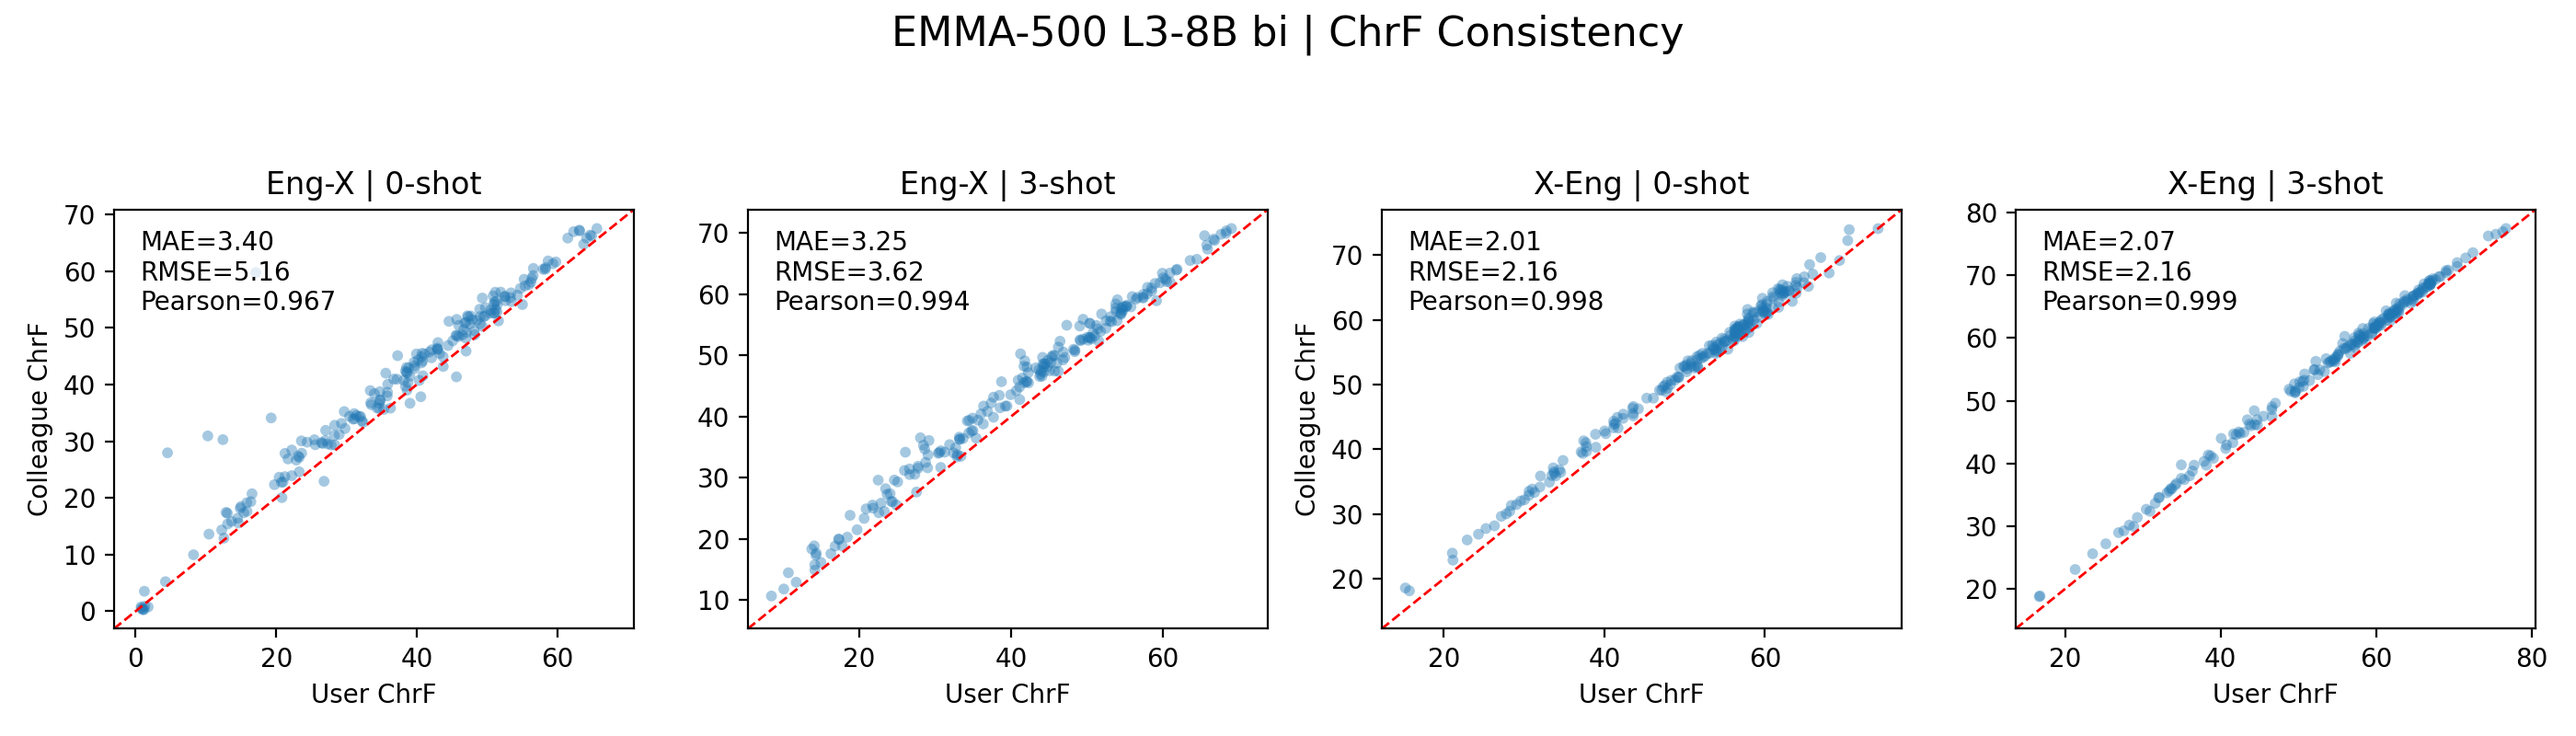
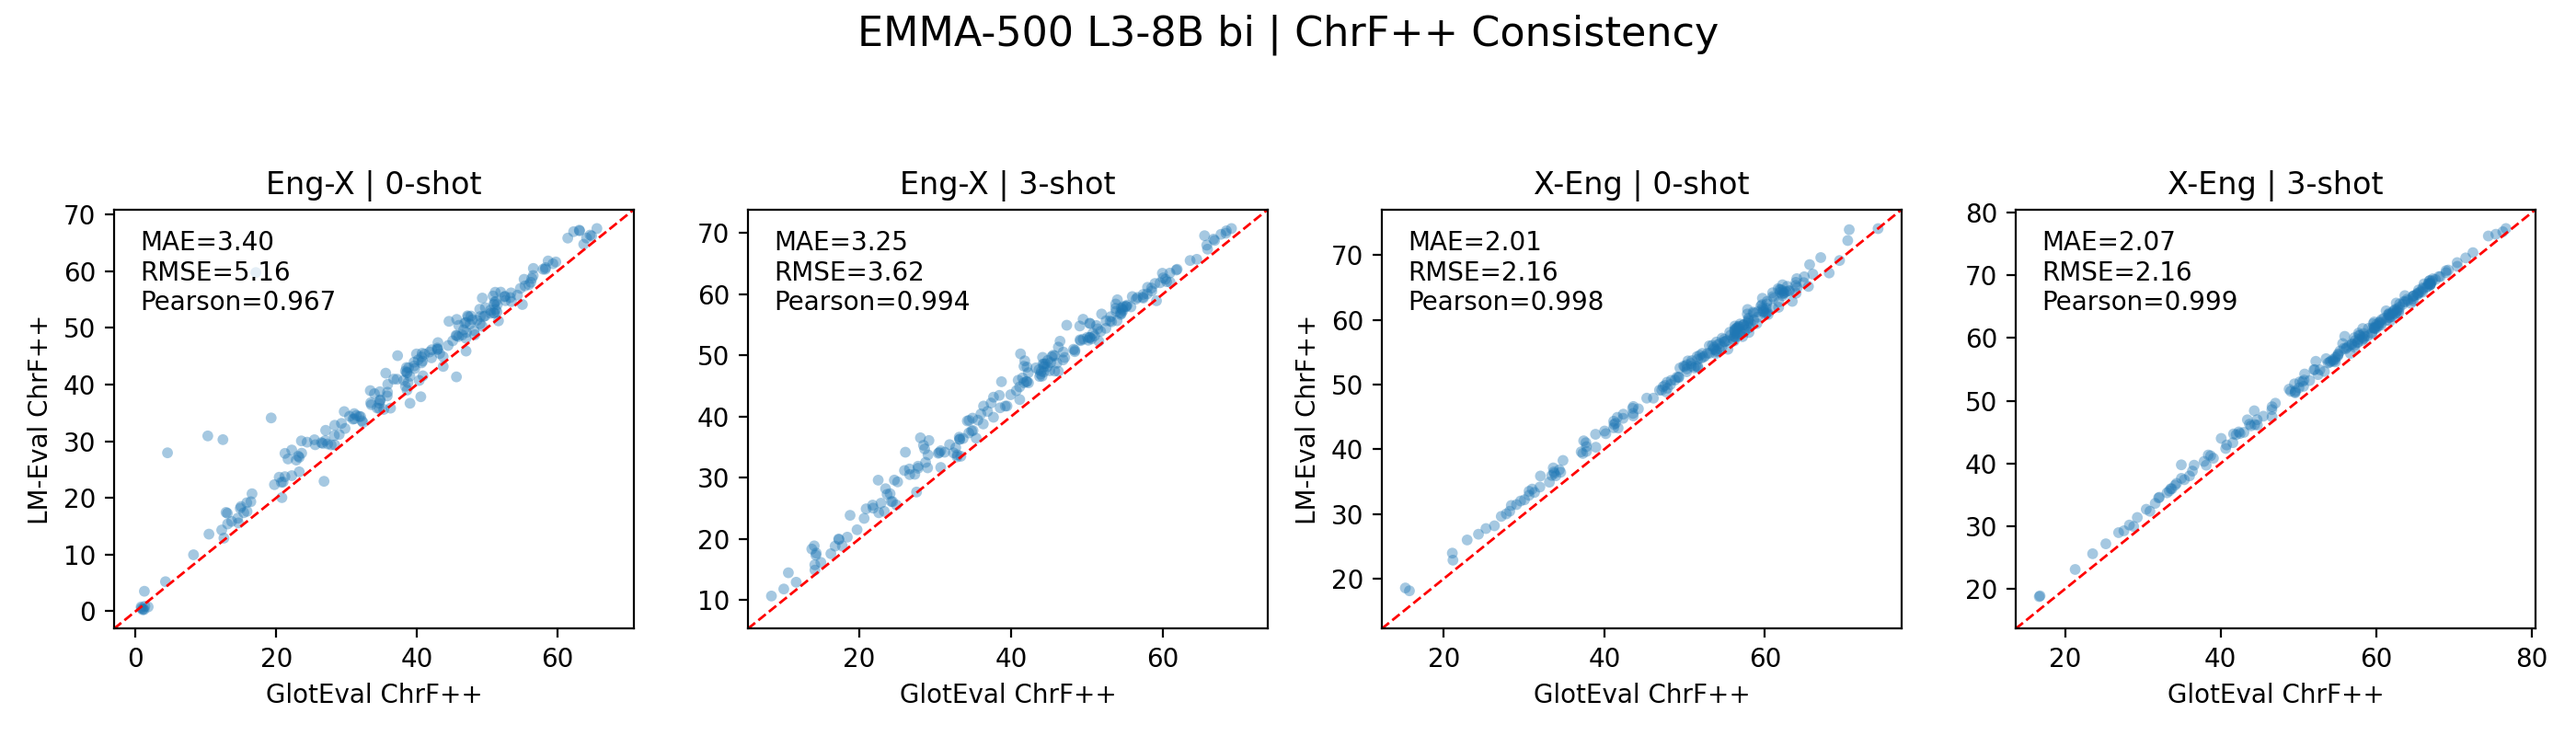
Add FLORES-200 ChrF consistency study docs and figures

diff --git a/Consistency_Study.md b/Consistency_Study.md
@@ -1,7 +1,7 @@
 # Consistency Study
 
 ## 1. Motivation
-GlotEval targets massively multilingual MT evaluation, so we need to show it produces trustworthy scores that agree with widely used toolkits. The goal of this study is to audit GlotEval against the LM Evaluation Harness (LM-Eval) on the FLORES-200 benchmark and verify that both frameworks yield comparable ChrF scores under matched settings. A collaborating teammate Tianxiang Wang @congc100 independently ran the LM-Eval pipeline, providing reference outputs used in this comparison.
+GlotEval targets massively multilingual MT evaluation, so we need to show it produces trustworthy scores that agree with widely used toolkits. The goal of this study is to audit GlotEval against the LM Evaluation Harness (LM-Eval) on the FLORES-200 benchmark and verify that both frameworks yield comparable ChrF++ scores under matched settings. A collaborating teammate @[Tianxiang Wang](https://github.com/congc100) independently ran the LM-Eval pipeline, providing reference outputs used in this comparison.
 
 ## 2. Experimental Setup
 - **Experiment grid**: 6 Llama-family checkpoints (MaLA-LM `emma-500` L3/L3.1 in mono/bi, `Llama-3.1-8B`, `Meta-Llama-3-8B`) × 2 directions (Eng→X, X→Eng) × 2 prompt regimes (0-shot, 3-shot) → 24 runs, each covering all 203 FLORES-200 language pairs.
@@ -10,14 +10,14 @@ GlotEval targets massively multilingual MT evaluation, so we need to show it pro
   - Prompt template matches GlotEval (`Translate the following sentence…`), with three in-context examples for the 3-shot runs.
   - Generation args (`temperature`: 0.6, `top_p`: 0.9, `max_gen_toks`: 128, `until`: `"\n"`) and shot counts align with our configs.
   - Harness identifiers (`flores200_lm_eval_*`) confirm LM-Eval was used.
-- **Comparison method**: Consolidated 4,872 language–direction–shot–model tuples from both pipelines, then computed ChrF deltas, MAE, RMSE, and Pearson correlation. Scatter visualizations live in `consistency_plots/`.
+- **Comparison method**: Consolidated 4,872 language–direction–shot–model tuples from both pipelines, then computed ChrF++ deltas, MAE, RMSE, and Pearson correlation. Scatter visualizations live in `consistency_plots/`.
 
 ## 3. Results & Observations
 - **Coverage**: All 4,872 tuples aligned perfectly (no missing languages or models).
-- **ChrF agreement**: Mean MAE 4.11, RMSE 4.69, Pearson 0.978 across the 24 experiments. Twenty-one experiments land at MAE ≤ 5 with Pearson ≥ 0.99.
-- **Stable directions**: X→Eng runs are particularly tight (ChrF MAE between 1.7–3.0, Pearson ≥ 0.99 for every non-EMMA mono case).
-- **Higher-variance pocket**: EMMA-500 L3.1-8B mono at 0-shot shows larger offsets (ChrF MAE ≈16 for both directions, Pearson ≈0.84). Its 3-shot X→Eng run drops back to MAE ≈5, suggesting prompt demonstrations mitigate drift.
-- **Visual confirmation**: The ChrF-only combined plots (`consistency_plots/*.png`) highlight near-diagonal clustering for every model/setting except the noted outlier.
+- **ChrF++ agreement**: Mean MAE 4.11, RMSE 4.69, Pearson 0.978 across the 24 experiments. Twenty-one experiments land at MAE ≤ 5 with Pearson ≥ 0.99.
+- **Stable directions**: X→Eng runs are particularly tight (ChrF++ MAE between 1.7–3.0, Pearson ≥ 0.99 for every non-EMMA mono case).
+- **Higher-variance pocket**: EMMA-500 L3.1-8B mono at 0-shot shows larger offsets (ChrF++ MAE ≈16 for both directions, Pearson ≈0.84). Its 3-shot X→Eng run drops back to MAE ≈5, suggesting prompt demonstrations mitigate drift.
+- **Visual confirmation**: The ChrF++ combined plots (`consistency_plots/*.png`) highlight near-diagonal clustering for every model/setting except the noted outlier.
 
 <div align="center">
 
@@ -31,6 +31,6 @@ GlotEval targets massively multilingual MT evaluation, so we need to show it pro
 </div>
 
 ## 4. Conclusion
-Under matched prompts and decoding parameters, GlotEval’s FLORES-200 ChrF scores track the LM Evaluation Harness extremely closely. The pipelines agree on relative model ranking, and absolute differences stay within ~3–5 ChrF points for 21/24 experiments. The sole exception (EMMA-500 L3.1-8B mono, 0-shot) merits targeted follow-up but does not undermine the broader finding: GlotEval delivers reproducible MT measurements consistent with the community-standard harness.
+Under matched prompts and decoding parameters, GlotEval’s FLORES-200 ChrF++ scores track the LM Evaluation Harness extremely closely. The pipelines agree on relative model ranking, and absolute differences stay within ~3–5 ChrF++ points for 21/24 experiments. The sole exception (EMMA-500 L3.1-8B mono, 0-shot) merits targeted follow-up but does not undermine the broader finding: GlotEval delivers reproducible MT measurements consistent with the community-standard harness.
 
-_Acknowledgement: Many thanks to our collaborator Tianxiang Wang @congc100 for running the LM Evaluation Harness reference experiments that enabled this study._
+_Acknowledgement: Many thanks to our collaborator @[Tianxiang Wang](https://github.com/congc100) for running the LM Evaluation Harness reference experiments that enabled this study._

diff --git a/README.md b/README.md
@@ -13,7 +13,7 @@ GlotEval is a unified evaluation toolkit designed to benchmark Large Language Mo
 - [🤝 Contributing](#contributing)
 - [📄 License](#license)
 - [📚 Citation](#citation)
-- [📊 Consistency Study (ChrF)](#-consistency-study-chrf)
+- [📊 Consistency Study (ChrF++)](#-consistency-study-chrf)
 
 ------
 
@@ -130,11 +130,11 @@ python main.py \
 - Includes: `scores.json`, detailed JSONLs (if enabled)
 
 
-## 📊 Consistency Study (ChrF)
+## 📊 Consistency Study (ChrF++)
 
-A brief write-up of our FLORES-200 GlotEval ↔ LM Evaluation Harness alignment and the corresponding ChrF scatter plots live in [`Consistency_Study.md`](Consistency_Study.md). Figures are also embedded below for quick reference.
+A brief write-up of our FLORES-200 GlotEval ↔ LM Evaluation Harness alignment and the corresponding ChrF++ scatter plots live in [`Consistency_Study.md`](Consistency_Study.md). Figures are also embedded below for quick reference.
 
-| Eng → X & X → Eng (ChrF) | |
+| Eng → X & X → Eng (ChrF++) | |
 | --- | --- |
 | ![EMMA-500 L3-8B bi](consistency_plots/EMMA-500_L3-8B_bi-combined.png) | ![EMMA-500 L3-8B mono](consistency_plots/EMMA-500_L3-8B_mono-combined.png) |
 | ![EMMA-500 L3.1-8B bi](consistency_plots/EMMA-500_L3.1-8B_bi-combined.png) | ![EMMA-500 L3.1-8B mono](consistency_plots/EMMA-500_L3.1-8B_mono-combined.png) |
